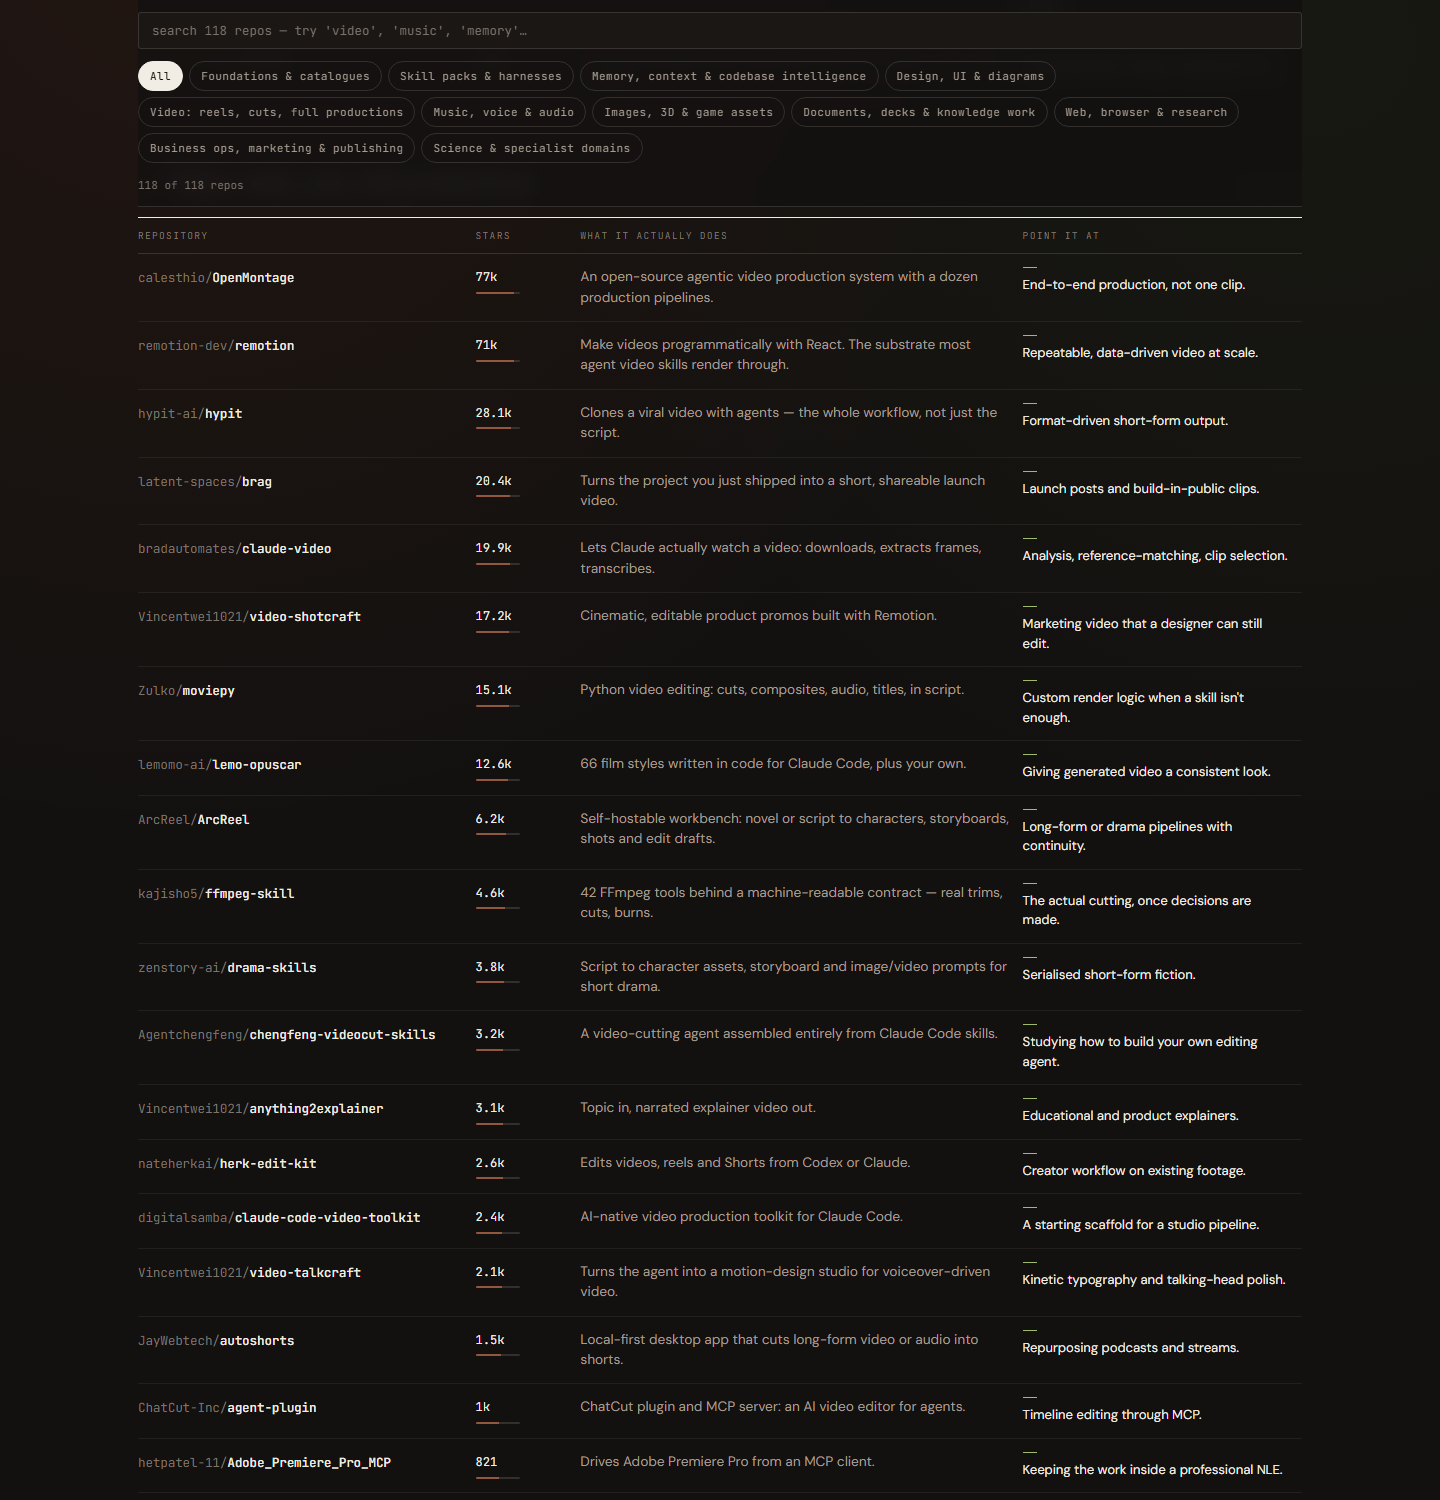
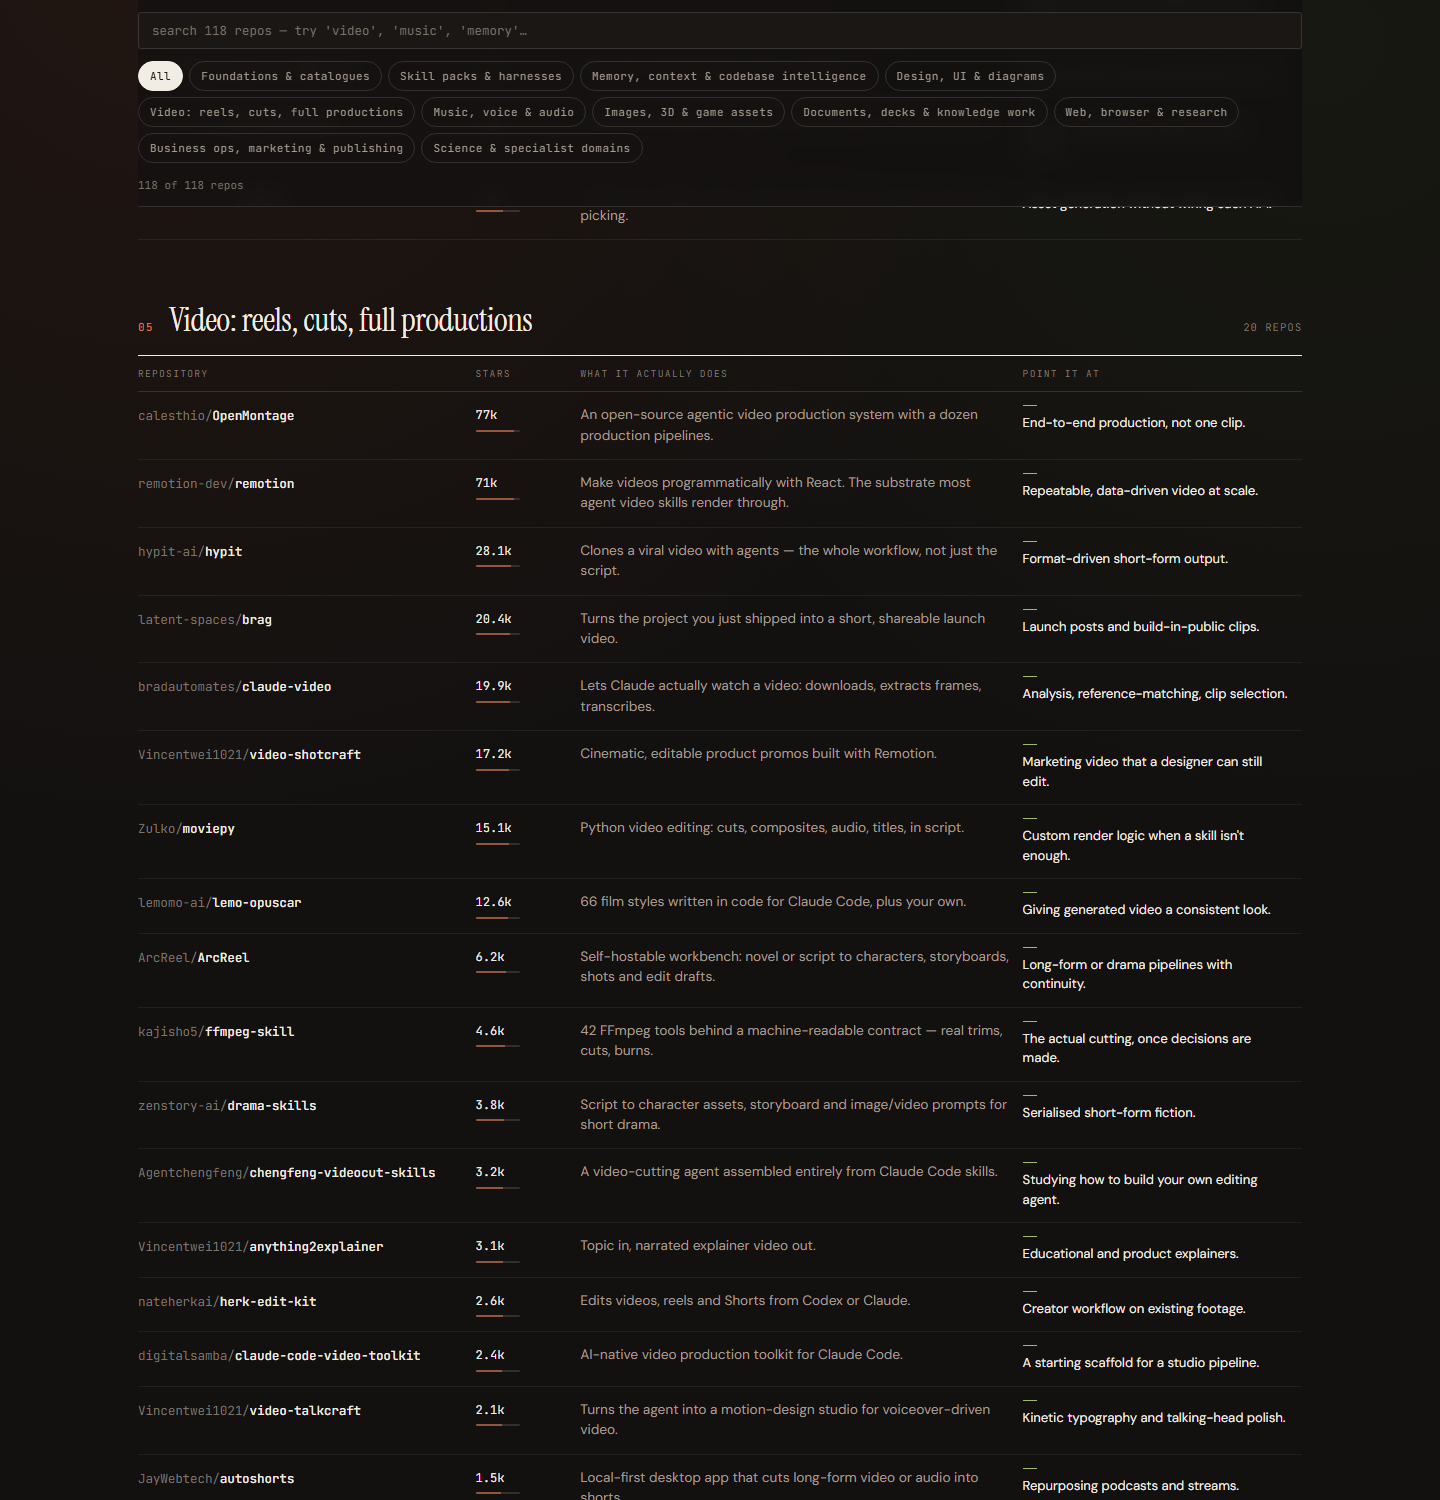
README in field-guide style: lockups, screenshots, badges, recipes and contribution guide

diff --git a/README.md b/README.md
@@ -1,42 +1,142 @@
-# The Claude Code Ecosystem — a field guide
+<p align="center">
+  <picture>
+    <source media="(prefers-color-scheme: dark)" srcset="docs/assets/lockup-dark.svg" />
+    <img src="docs/assets/lockup-light.svg" alt="The Claude Code Ecosystem — a field guide" width="520" />
+  </picture>
+</p>
+<h3 align="center">A field guide to what people actually built around Claude Code.</h3>
 
-**Live site:** https://ravaniroshan.github.io/claude-code-ecosystem-guide/
+<p align="center">
+  <picture>
+    <source media="(prefers-color-scheme: dark)" srcset="docs/assets/guide-hero-dark.png" />
+    <img src="docs/assets/guide-hero-light.png" alt="The Claude Code Ecosystem — hero view with search, domain filters and the first domain table" width="960" />
+  </picture>
+</p>
 
-A curated, single-page map of the open-source layer that has grown around
-Claude Code — and, more broadly, around agentic coding harnesses. It catalogues
-**118 repositories** across **11 domains**: foundations, skill packs, memory &
-context, design, video, music & audio, images & 3D, documents, web research,
-business ops, and specialist domains.
+<p align="center"><strong>Official channels:</strong> <a href="https://ravaniroshan.github.io/claude-code-ecosystem-guide/">Live site</a> · <a href="https://github.com/RavaniRoshan/claude-code-ecosystem-guide">GitHub</a><br/>The guide is free to read, share and fork. Not affiliated with Anthropic. Inclusion is not an endorsement. <a href="#notices">Details →</a></p>
+
+<p align="center">Start with a job you didn't know agents could do: cut a podcast into reels, score it with original music, diagram an architecture, run a research brief. This page maps <strong>118 open-source repositories</strong> across <strong>11 domains</strong> that turn Claude — and agent harnesses like it — into a video editor, a music producer, a designer and a small operations team.</p>
+
+<p align="center">
+  <a href="https://ravaniroshan.github.io/claude-code-ecosystem-guide/"><strong>Open the guide</strong></a> &nbsp;·&nbsp;
+  <a href="#quick-start"><strong>Get started</strong></a> &nbsp;·&nbsp;
+  <a href="#three-stacks-worth-copying"><strong>Recipes</strong></a> &nbsp;·&nbsp;
+  <a href="#data--methodology"><strong>How the data was collected</strong></a> &nbsp;·&nbsp;
+  <a href="#contributing"><strong>Submit a repo</strong></a>
+</p>
+
+<p align="center">
+  <a href="https://github.com/RavaniRoshan/claude-code-ecosystem-guide/stargazers"><img src="https://img.shields.io/github/stars/RavaniRoshan/claude-code-ecosystem-guide?style=flat-square&color=E5B650&logo=github&label=Stars" alt="GitHub stars" /></a>
+  <a href="#whats-inside"><img src="https://img.shields.io/badge/repos%20tracked-118-b4451f?style=flat-square" alt="118 repositories tracked" /></a>
+  <a href="#whats-inside"><img src="https://img.shields.io/badge/domains-11-4d6b28?style=flat-square" alt="11 domains" /></a>
+  <a href="#data--methodology"><img src="https://img.shields.io/badge/verified-2026--11--05-0891b2?style=flat-square" alt="Star counts verified 5 November 2026" /></a>
+  <a href="#quick-start"><img src="https://img.shields.io/badge/runtime-one%20HTML%20file%2C%20zero%20dependencies-7C3AED?style=flat-square" alt="One self-contained HTML file, zero dependencies" /></a>
+</p>
+
+<p align="center">
+  <a href="https://ravaniroshan.github.io/claude-code-ecosystem-guide/"><img src="https://img.shields.io/badge/Open_the_live_guide-b4451f?style=for-the-badge" alt="Open the live guide" /></a>
+  <a href="https://github.com/RavaniRoshan/claude-code-ecosystem-guide/issues/new?title=%5Bsubmission%5D%20Add%20a%20repo"><img src="https://img.shields.io/badge/Submit_a_repo-181717?style=for-the-badge&logo=github" alt="Submit a repo" /></a>
+</p>
+
+## See the guide in action
+
+**One page. 118 repos, sorted, annotated, searchable.** The hero already shows the shape of it: domain tables below a sticky filter bar, a count that updates as you type, and stars with bar-glyphs scaled against the largest repo on the page.
+
+- **Live search and domain chips.** Type `video`, `memory` or `MCP` and the page re-filters instantly — every row updates, empty domains collapse, the counter follows.
+- **Editorial two-liners, not market copy.** Each repository gets *"what it actually does"* and *"point it at"* — 120 characters of truth instead of a landing page.
+- **Honest ranking signals.** Rows are sorted by stars, but the sidebar notes tell you why a 5k-star skill may beat a 300k-star framework for your exact job.
+
+<a id="whats-inside"></a>
 
 ## What's inside
 
-- **118 repos**, sorted by domain, then by GitHub stars
-- Live **search** and **domain filter chips**
-- Editorial "what it actually does" and "point it at" notes for every repo
-- Three composed **recipe pipelines** (reel factory, explainer studio, launch kit)
-- Dark mode (follows your system preference), zero dependencies, one file
+| Look up any domain | Steal a proven stack |
+|---|---|
+| <picture><source media="(prefers-color-scheme: dark)" srcset="docs/assets/guide-video-dark.png" /><img src="docs/assets/guide-video-light.png" alt="Domain table: Video — reels, cuts, full productions" width="480" /></picture> | <picture><source media="(prefers-color-scheme: dark)" srcset="docs/assets/guide-recipes-dark.png" /><img src="docs/assets/guide-recipes-light.png" alt="Three composed recipe pipelines: reel factory, explainer studio, launch kit" width="480" /></picture> |
+| 20 video repositories, from end-to-end agentic production pipelines down to a guardrailed FFmpeg MCP that can't destroy your source. | Three ready-made pipelines — the reel factory, the explainer studio and the launch kit — with every step wired to a real repo. |
 
-## Data notes
+The 11 domains: **Foundations & catalogues** · **Skill packs & harnesses** · **Memory, context & codebase intelligence** · **Design, UI & diagrams** · **Video: reels, cuts, full productions** · **Music, voice & audio** · **Images, 3D & game assets** · **Documents, decks & knowledge work** · **Web, browser & research** · **Business ops, marketing & publishing** · **Science & specialist domains**
 
-Star counts were pulled straight from the GitHub REST API on
-**5 November 2026** — not from a blog post. Descriptions are editorial
-summaries, not quotes.
+Headline numbers, pulled straight from the GitHub REST API on **5 November 2026**:
 
-## Run locally
+| | |
+|---|---|
+| **118** | repositories curated across every domain |
+| **7.07M** | combined stars |
+| **433k** | stars of the largest single repo |
+| **0** | external dependencies — one HTML file that runs entirely client-side |
 
-It's a single self-contained HTML file:
+<a id="quick-start"></a>
+
+## Quick start
+
+### 1. Open it
+
+It's hosted — no setup at all:
+
+> **https://ravaniroshan.github.io/claude-code-ecosystem-guide/**
+
+### 2. Or run it locally
+
+The guide is a single self-contained file:
 
 ```bash
-# open directly…
-start index.html        # Windows
-open index.html         # macOS
+# Windows
+start index.html
 
-# …or serve it
+# macOS / Linux
+open index.html
+
+# or serve it
 python -m http.server 8000
 ```
 
-## Disclaimer
+### 3. Use the stack recipes
 
-Not affiliated with Anthropic. Inclusion in this guide is not an endorsement.
-Check each project's license before building on it — media-generation repos
-especially, where model weights and code often carry different terms.
+Scroll to **Three stacks worth copying** and follow the composed pipelines. Pick the repo that matches your task, install it the way its README suggests (a skill goes into `.claude/skills/`, an MCP server into your harness config), and chain steps as you would a macro.
+
+## Three stacks worth copying
+
+| Stack | Entry point | Chain |
+|---|---|---|
+| **The reel factory** | A long stream or podcast in | `whisper` → `claude-video` → `autoshorts` → `ffmpeg-skill` → `ACE-Step` → `postiz-app` |
+| **The explainer studio** | A topic or a PDF in | `anything2explainer` → `lemo-opuscar` → `video-shotcraft` → `yovoice` → `remotion` |
+| **The launch kit** | One shipped project in | `brag` → `ui-ux-pro-max-skill` → `archify` → `huashu-design` → `marketingskills` → `postiz-app` |
+
+Each chain is fully annotated on the live page, with a link to every repo.
+
+<a id="data--methodology"></a>
+
+## Data & methodology
+
+<details>
+<summary>Where the numbers come from, and how to refresh them</summary>
+
+- **Star counts** were pulled from the GitHub REST API on **5 November 2026** and typed into the page as a snapshot. Star counts drift daily — treat the numbers as a verification date, not a live ranking.
+- **Descriptions** are editorial summaries written for this guide; they are deliberately not the projects' own taglines.
+- **Ordering** inside each domain is stars, descending. Within ~1k stars the order can be stale within weeks.
+- **Refresh arithmetic**: open [`index.html`](https://github.com/RavaniRoshan/claude-code-ecosystem-guide/blob/main/index.html), update each `<span class="num">` star value and bar width, adjust the four hero stats and the footer's date note, and deploy. Bar widths scale against the page maximum (433k).
+- **Selection bias**: repos were picked for working product surface and credible maintenance — not by popularity alone. Tell us about a repo that belongs in the tables in [issues](https://github.com/RavaniRoshan/claude-code-ecosystem-guide/issues/new?title=%5Bsubmission%5D%20Add%20a%20repo).
+
+</details>
+
+<a id="contributing"></a>
+
+## Contributing
+
+PRs and issues are equally welcome.
+
+- **Add a repo**: append a `<tr>` to the correct domain table in `index.html`, with a two-column description and `use` labels, keeping the star order. Update the domain's `dcount` line and the hero stats if affected.
+- **Refresh star counts**: see [Data & methodology](#data--methodology). Set a new verified date in the kicker and footer.
+- **Fix a description**: open a PR with wording that stays in the guide's voice — one sentence for what it does, one for who should reach for it.
+- **Report a dead repo**: the repo was deleted, renamed or went private — raise an issue or edit a row.
+
+## Notices
+
+- **Not affiliated with Anthropic.** *Claude Code* and *Page* content refer to `anthropics/claude-code` and the ecosystem around it; this field guide is an independent, community-curated index. Inclusion is not an endorsement by Anthropic or the maintainer.
+- **Check the license before building on any listed repo.** Media-generation repos especially: model weights and code often carry different licensing terms. Self-hosting a music model is a licensing decision, not just an install.
+- Star counts are snapshots, and GitHub profile links may change as repositories rename. Report inaccuracies via [issues](https://github.com/RavaniRoshan/claude-code-ecosystem-guide/issues).
+
+## Star History
+
+<p align="center"><picture><source media="(prefers-color-scheme: dark)" srcset="https://api.star-history.com/svg?repos=RavaniRoshan/claude-code-ecosystem-guide&type=Date&theme=dark" /><img alt="Star History" src="https://api.star-history.com/svg?repos=RavaniRoshan/claude-code-ecosystem-guide&type=Date&theme=light" /></picture></p>
